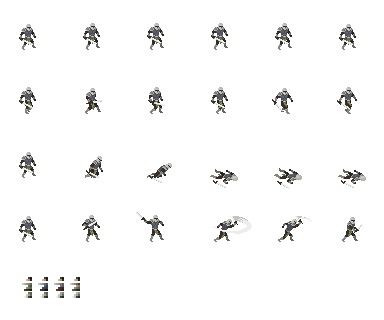
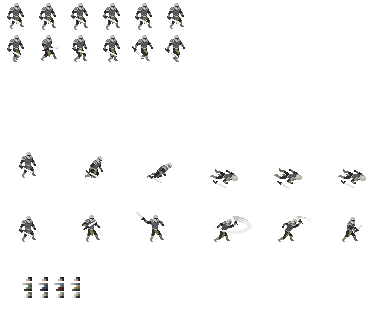
fix walk animation

diff --git a/src/overworld/sprits.ts b/src/overworld/sprits.ts
@@ -1,0 +1,75 @@
+import { GameObject } from "../classes/game-object";
+import { SpriteConfig } from "../models/models";
+import { OverworldPlayer } from "./overworld-player";
+
+export class Sprite {
+  gameObject: OverworldPlayer;
+  image = new Image();
+
+  spriteConfig: SpriteConfig;
+
+  currentAnimation: number[][] = [[0, 0]]; // x and y;
+  currentAnimationName = "idleRight";
+  currentAnimationFrame = 0;
+
+  animationFrameLimit = 16;
+  animationFrameProgress = 0;
+
+  constructor(gameObject: OverworldPlayer, spriteConfig: any) {
+    this.gameObject = gameObject;
+
+    this.spriteConfig = spriteConfig;
+
+    this.image.src = this.spriteConfig.src;
+    this.currentAnimation = this.spriteConfig.animations.idleRight;
+  }
+
+  get frame() {
+    const frame = this.currentAnimation[this.currentAnimationFrame];
+    return frame;
+  }
+
+  updateAnimationProgress() {
+    this.animationFrameProgress += 1;
+
+    if (this.animationFrameProgress > this.animationFrameLimit) {
+      this.currentAnimationFrame += 1;
+      this.animationFrameProgress = 0;
+    }
+    if (!this.frame) {
+      this.currentAnimationFrame = 0;
+      this.animationFrameProgress = 0;
+    }
+  }
+
+  draw(ctx: CanvasRenderingContext2D) {
+    const [frameX, frameY] = this.frame;
+
+    ctx.drawImage(
+      this.image,
+      frameX * this.spriteConfig.cutConfig.cutSizeX,
+      frameY * this.spriteConfig.cutConfig.cutSizeY,
+      this.spriteConfig.cutConfig.cutSizeX,
+      this.spriteConfig.cutConfig.cutSizeY,
+      this.gameObject.drawX,
+      this.gameObject.drawY,
+      this.gameObject.width,
+      this.gameObject.height
+    );
+
+    this.updateAnimationProgress();
+  }
+
+  setAnimation(animationName: string) {
+    if (this.currentAnimationName === animationName) {
+      return;
+    }
+    let currentAnimation = (this.spriteConfig.animations as any)[animationName];
+
+    if (currentAnimation) {
+      this.currentAnimation = currentAnimation;
+      this.currentAnimationName = animationName;
+      this.currentAnimationFrame = 0;
+    }
+  }
+}

diff --git a/src/overworld/overworld-player.ts b/src/overworld/overworld-player.ts
@@ -3,6 +3,7 @@ import { PlayerData } from "../game";
 import { rectRectCollision } from "../utils/utils";
 import { Overworld } from "./overworld";
 import { OverworldEnemy } from "./overworld-enemy";
+import { Sprite } from "./sprits";
 import { Tile } from "./tile";
 import { Wall } from "./wall";
 
@@ -12,13 +13,17 @@ export class OverworldPlayer extends GameObject {
   speedX = 0;
 
   speedY = 0;
-  image = new Image();
+  portrait = new Image();
   isPlayer = true;
+
+  sprite: Sprite;
 
   constructor(overworld: Overworld, playerData: PlayerData) {
     super(overworld.game);
     this.overworld = overworld;
-    this.image.src = playerData.imgSrc;
+    this.portrait.src = playerData.imgSrc;
+
+    this.sprite = new Sprite(this, playerData.spriteConfig);
     this.widthPercentage = 0.07;
     this.heightPercentage = 0.07;
   }
@@ -34,11 +39,10 @@ export class OverworldPlayer extends GameObject {
     this.speedY = y;
   }
 
-  draw(ctx: CanvasRenderingContext2D) {
+  mainDraw(ctx: CanvasRenderingContext2D) {
     ctx.strokeStyle = "black";
     ctx.strokeRect(this.drawX, this.drawY, this.width, this.height);
-
-    ctx.drawImage(this.image, this.drawX, this.drawY, this.width, this.height);
+    this.sprite.draw(ctx);
   }
 
   // Update the player's position based on input
@@ -118,9 +122,18 @@ export class OverworldPlayer extends GameObject {
       });
     }
 
-    if (allowedToMove) {
+    if (
+      allowedToMove &&
+      (this.x !== newPositions.x || this.y !== newPositions.y)
+    ) {
+      console.log("allowed to move??");
+
+      this.sprite.setAnimation("walkRight");
+
       this.x = newPositions.x;
       this.y = newPositions.y;
+    } else {
+      this.sprite.setAnimation("idleRight");
     }
   }
 }

diff --git a/src/game.ts b/src/game.ts
@@ -10,7 +10,7 @@ import { EnemyConfig, EnemyName } from "./dictionaries/enemy-dictionary";
 import { Enemy } from "./units/enemy";
 import { GameObject } from "./classes/game-object";
 import { Player } from "./units/player";
-import { GameState } from "./models/models";
+import { GameState, SpriteConfig } from "./models/models";
 import { CardTitle } from "./dictionaries/card-dictionary";
 import { Camera } from "./camera";
 
@@ -20,6 +20,7 @@ export type PlayerData = {
   allCards: CardTitle[];
   maxHp: number;
   maxMp: number;
+  spriteConfig?: SpriteConfig;
 };
 
 export class Game {
@@ -54,6 +55,34 @@ export class Game {
     ],
     maxHp: 20,
     maxMp: 3,
+
+    spriteConfig: {
+      src: "assets/swordman pack/swordman_1.png",
+      animations: {
+        idleRight: [
+          [0, 0],
+          [1, 0],
+          [2, 0],
+          [3, 0],
+          [4, 0],
+          [5, 0],
+        ],
+        walkRight: [
+          [0, 1],
+          [1, 1],
+          [2, 1],
+          [3, 1],
+          [4, 1],
+          [5, 1],
+        ],
+      },
+      cutConfig: {
+        sourceX: 0,
+        sourceY: 0,
+        cutSizeX: 32,
+        cutSizeY: 32,
+      },
+    },
   };
 
   get clickableItems() {

diff --git a/src/overworld/wall.ts b/src/overworld/wall.ts
@@ -83,27 +83,27 @@ export class Wall extends GameObject {
     let x = this.drawX + 0.9 * this.width;
     let w = 0.1 * this.width;
     ctx.fillRect(x, this.drawY, w, this.height);
-    ctx.strokeRect(x, this.drawY, w, this.height);
+    // ctx.strokeRect(x, this.drawY, w, this.height);
   }
 
   drawLeftWall(ctx: CanvasRenderingContext2D): void {
     let x = this.drawX;
     let w = 0.1 * this.width;
     ctx.fillRect(x, this.drawY, w, this.height);
-    ctx.strokeRect(x, this.drawY, w, this.height);
+    // ctx.strokeRect(x, this.drawY, w, this.height);
   }
 
   drawTopWall(ctx: CanvasRenderingContext2D): void {
     // let x = this.drawX + 0.9 * this.width;
     let h = 0.1 * this.height;
     ctx.fillRect(this.drawX, this.drawY, this.width, h);
-    ctx.strokeRect(this.drawX, this.drawY, this.width, h);
+    // ctx.strokeRect(this.drawX, this.drawY, this.width, h);
   }
 
   drawBottomWall(ctx: CanvasRenderingContext2D): void {
     let y = this.drawY + 0.9 * this.height;
     let h = 0.1 * this.height;
     ctx.fillRect(this.drawX, y, this.width, h);
-    ctx.strokeRect(this.drawX, y, this.width, h);
+    // ctx.strokeRect(this.drawX, y, this.width, h);
   }
 }

diff --git a/src/overworld/overworld-enemy.ts b/src/overworld/overworld-enemy.ts
@@ -27,7 +27,13 @@ export class OverworldEnemy extends GameObject {
   }
 
   mainDraw(ctx: CanvasRenderingContext2D): void {
-    ctx.fillStyle = "black";
-    ctx.fillRect(this.drawX, this.drawY, this.width, this.height);
+    ctx.strokeStyle = "black";
+    ctx.strokeRect(this.drawX, this.drawY, this.width, this.height);
+    ctx.fillStyle = "white";
+    ctx.fillText(
+      "Enemy",
+      this.drawX + 0.5 * this.width,
+      this.drawY + 0.5 * this.height
+    );
   }
 }

diff --git a/src/models/models.ts b/src/models/models.ts
@@ -2,3 +2,17 @@ export enum GameState {
   OVERWORLD,
   BATTLE,
 }
+
+export interface SpriteConfig {
+  src: string;
+  animations: {
+    idleRight: number[][]; // x and y
+    walkRight: number[][]; // x and y
+  };
+  cutConfig: {
+    sourceX: number;
+    sourceY: number;
+    cutSizeX: number;
+    cutSizeY: number;
+  };
+}

diff --git a/src/overworld/overworld.ts b/src/overworld/overworld.ts
@@ -46,6 +46,8 @@ export class Overworld {
     this.addEventListeners();
     this.spawnPlayer();
     this.spawnEnemy();
+    this.spawnEnemy();
+    this.spawnEnemy();
   }
 
   spawnPlayer() {
